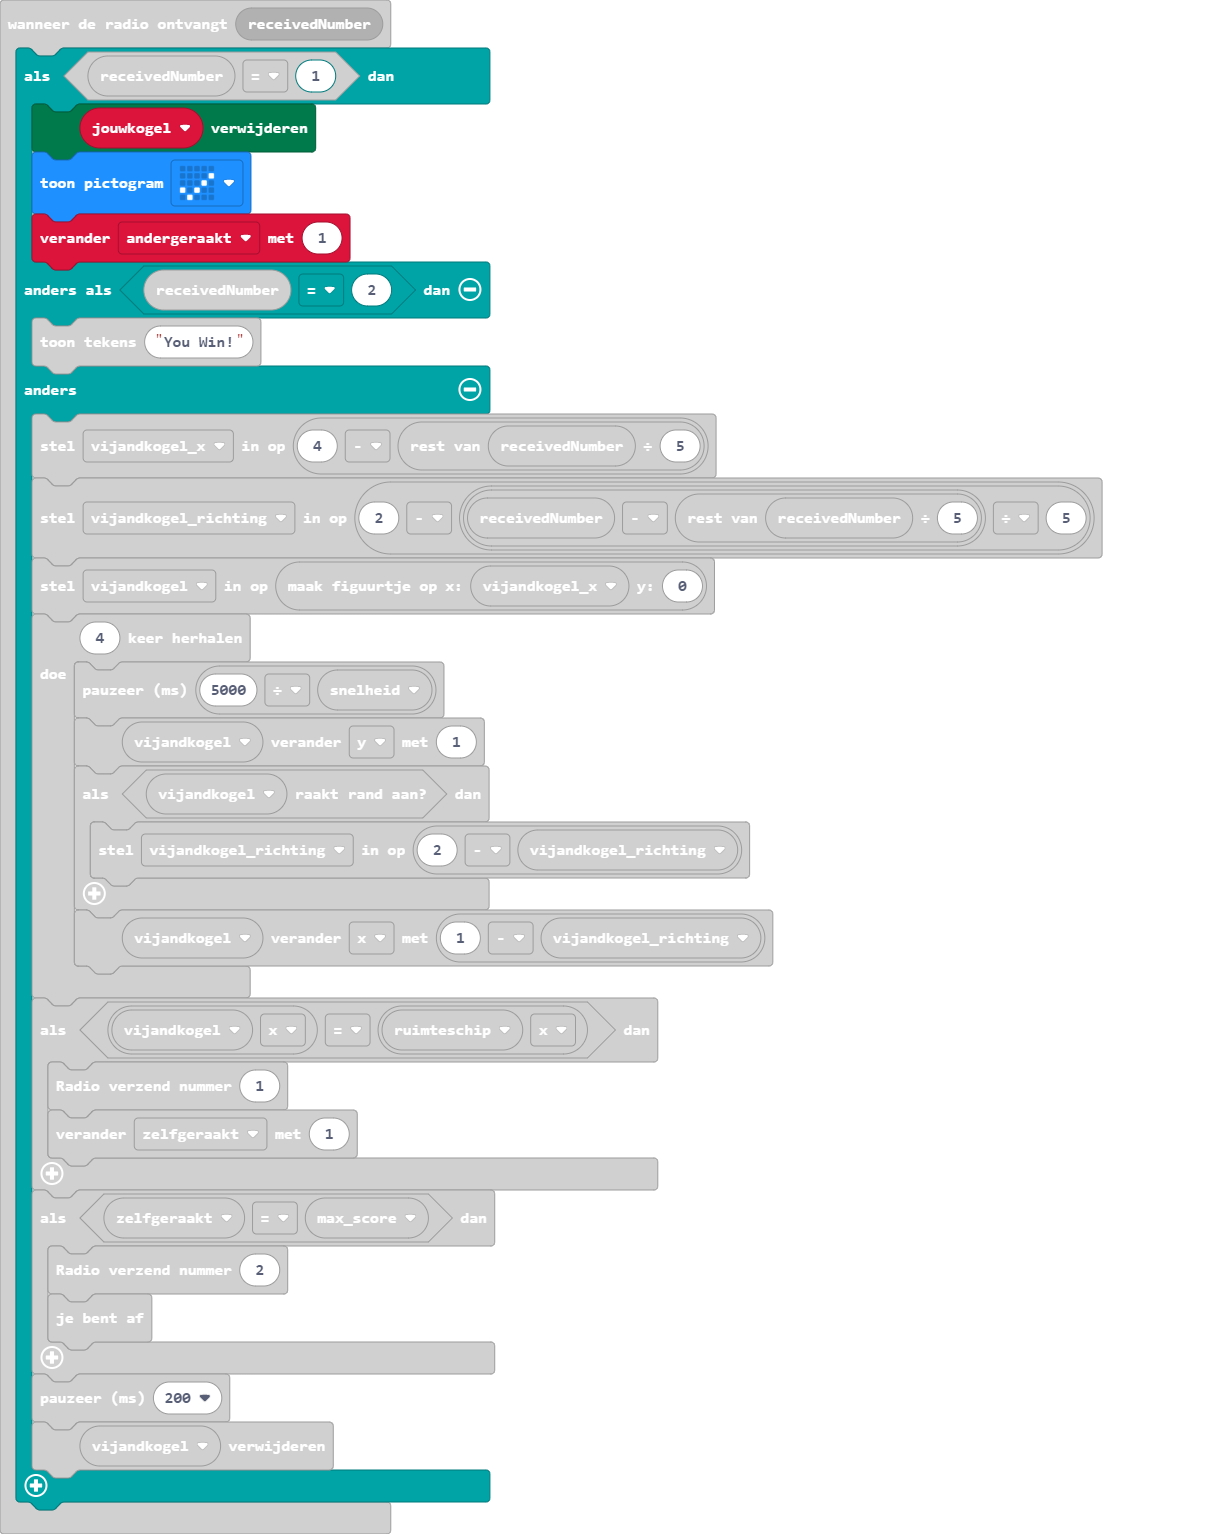
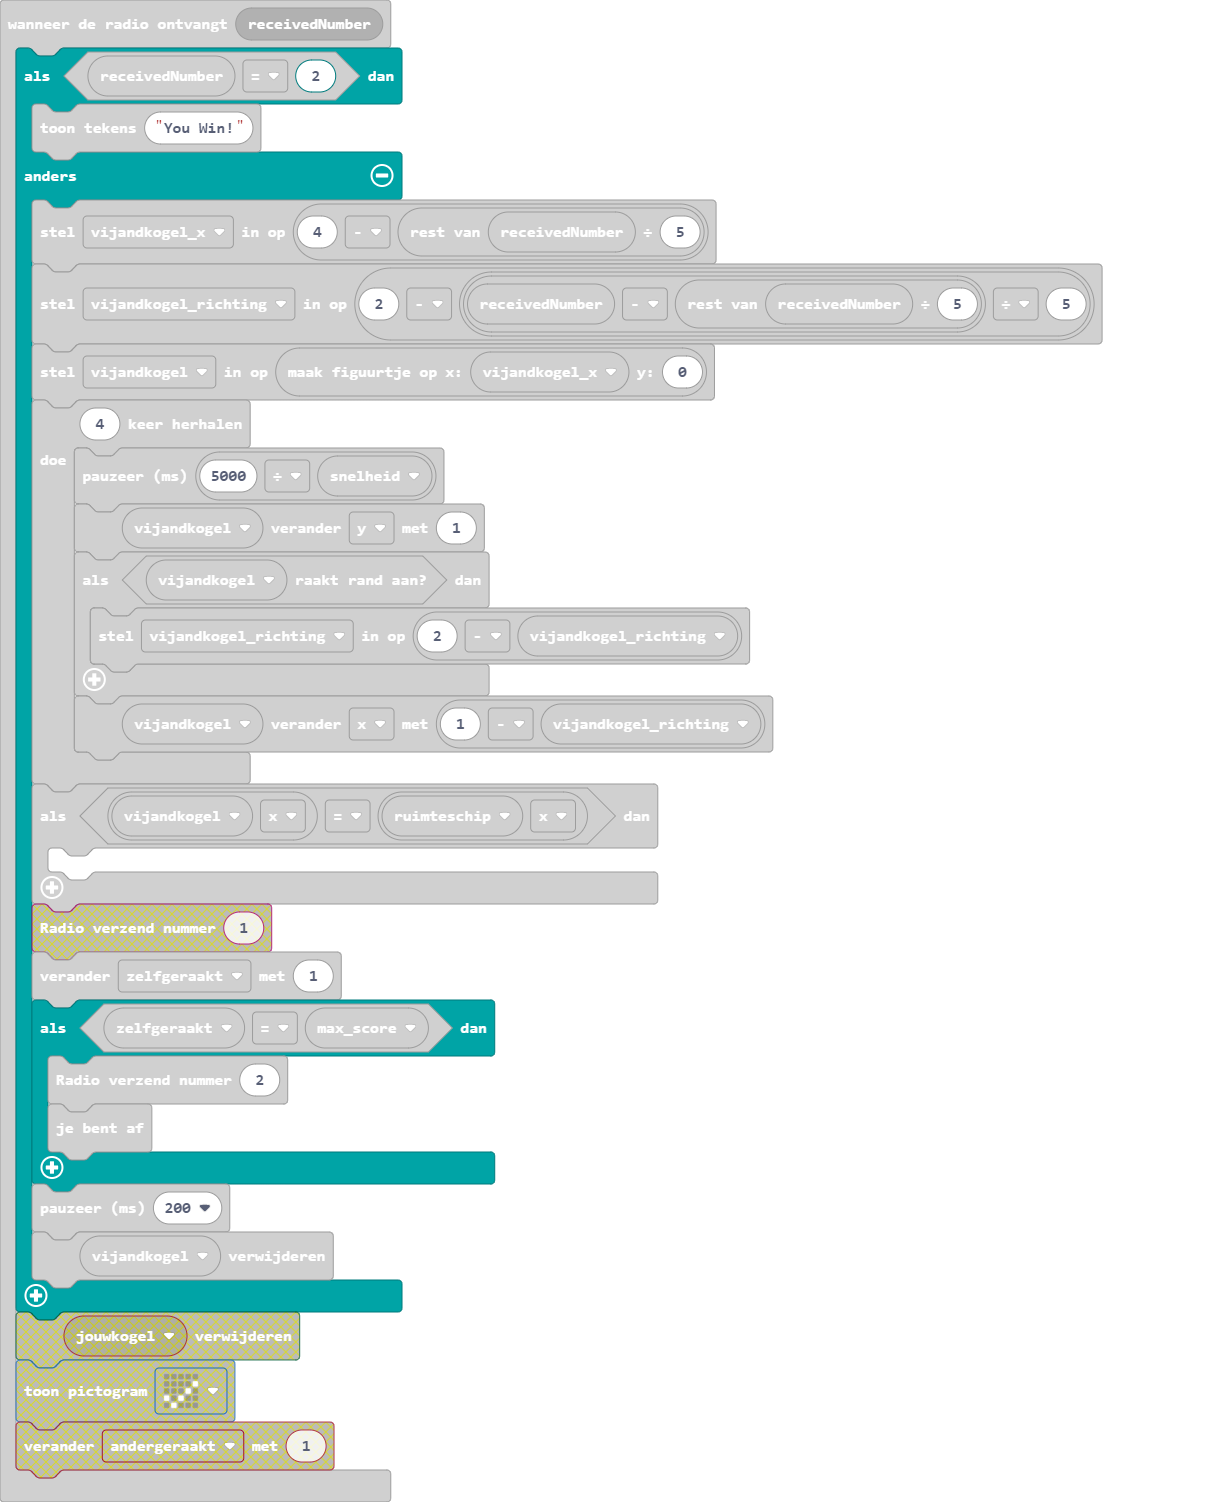
Update main.blocks, main.ts

diff --git a/main.ts b/main.ts
@@ -1,9 +1,5 @@
 radio.onReceivedNumber(function (receivedNumber) {
-    if (receivedNumber == 1) {
-        jouwkogel.delete()
-        basic.showIcon(IconNames.Yes)
-        andergeraakt += 1
-    } else if (receivedNumber == 2) {
+    if (receivedNumber == 2) {
         basic.showString("You Win!")
     } else {
         vijandkogel_x = 4 - receivedNumber % 5
@@ -18,7 +14,6 @@ radio.onReceivedNumber(function (receivedNumber) {
             vijandkogel.change(LedSpriteProperty.X, 1 - vijandkogel_richting)
         }
         if (vijandkogel.get(LedSpriteProperty.X) == ruimteschip.get(LedSpriteProperty.X)) {
-            radio.sendNumber(1)
             zelfgeraakt += 1
         }
         if (zelfgeraakt == max_score) {
@@ -57,10 +52,10 @@ input.onButtonPressed(Button.B, function () {
     richtingschip = 1
 })
 let richtingkogel = 0
+let jouwkogel: game.LedSprite = null
 let vijandkogel: game.LedSprite = null
 let vijandkogel_richting = 0
 let vijandkogel_x = 0
-let jouwkogel: game.LedSprite = null
 let zelfgeraakt = 0
 let richtingschip = 0
 let max_score = 0
